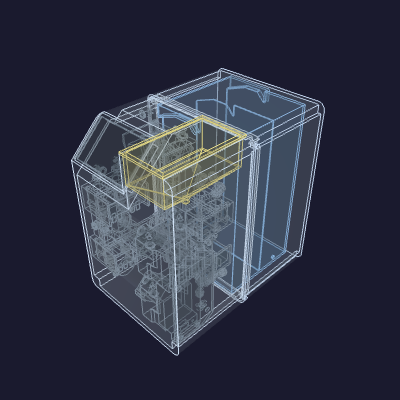
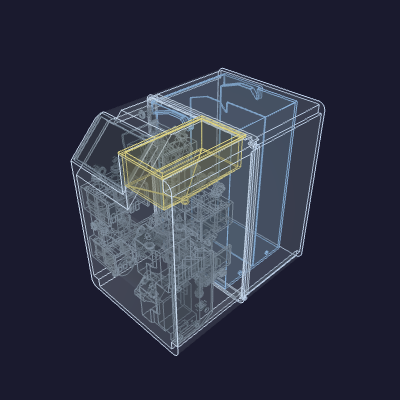
lite: slide reservoir hard-left to open the +X rear-panel strip
Drop RES_X_INSET 30->15 (down to the corner-brace floor) and trim the
forward pull 9->7 mm so the front-left doorway frame still clears
source-select's back fitting at the new inset. Opens a ~35 mm strip
between the reservoir's +X face and the power tray for the rear-panel
cluster + logic tray. Costs 2 mm of back-half depth (157->159 mm).

diff --git a/pie-in-the-sky/lite/enclosure-assembly/_contents.py b/pie-in-the-sky/lite/enclosure-assembly/_contents.py
@@ -67,10 +67,11 @@ POWER_STEP = _repo / "pie-in-the-sky" / "lite" / "printed-parts" / "electronics"
 # --- Packing parameters (free design choices, not measured geometry) ------
 # Inset off the -X wall so the floor content clears the bottom corner pods.
 X_INSET = 3.0
-# The reservoir is inset off the -X wall, clear of the back-half corner braces
-# (full-depth in the ±X corners) and, as it sits pulled forward, clear of the
-# source-select tray's top-back fitting that its front-left corner slides past.
-RES_X_INSET = 30.0
+# The reservoir is inset off the -X wall, just clear of the back-half corner
+# braces (full-depth in the ±X corners). Slid hard left like this it opens a
+# strip on its +X side — between it and the power tray — for the rear-panel
+# cluster (faucet-inlet stub, umbilical bulkheads, C14) and the logic tray.
+RES_X_INSET = 15.0
 # The four corner cross-pin bosses tuck into the ±X/±Z corners and run in Y
 # across the seam. Floor content against a side wall would foul the bottom pods,
 # so it is lifted clear of them — the Kitchen `FOAM_LIFT` idiom.
@@ -82,7 +83,8 @@ PUMP_HEAD_X = 164.0        # the pump heads' +X face
 PUMP_UPPER_ZMIN = 93.0     # upper pump zmin (its motor in the bag tray's ~z100-150 air gap)
 PUMP_TO_STACK_GAP = 1.0    # pump heads to the back-row (bib/nozzle) front (Y)
 RES_FRONT_Y = 180.0        # split datum: back trays hang off it, seam rides on it
-RES_Y_PULL = 9.0           # reservoir front pulled this far forward of the datum (-Y)
+RES_Y_PULL = 7.0           # reservoir front pulled forward of the datum (-Y); held back
+                           # just enough to clear source-select's back fitting at the -X inset
 BAG_SOURCE_GAP = 1.0       # bag-circuit back to the source-select front (Y)
 BAG_Z_LIFT = 5.0           # bag-circuit raised this far above the floor lift
 # The short trays (bib, nozzle) STACK into one footprint at the back-right, turned a

diff --git a/pie-in-the-sky/lite/enclosure/README.md b/pie-in-the-sky/lite/enclosure/README.md
@@ -92,7 +92,7 @@ the real solids). The funnel derives its collar from the same rectangle
 
 ## Dimensions
 
-Outer envelope [213.5 mm](LITE_OUTER_X) × [300.5 mm](LITE_OUTER_Y) × [301 mm](LITE_OUTER_Z)
+Outer envelope [213.5 mm](LITE_OUTER_X) × [302.5 mm](LITE_OUTER_Y) × [301 mm](LITE_OUTER_Z)
 (X × Y × Z) — smaller than the Kitchen edition (289 × 342 × 310) in all three
 axes: with no cold core, compressor, or condenser, the trays and pumps pack into a
 tight front zone ahead of the reservoir, and the contents sit flush against the
